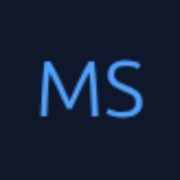
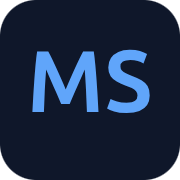
feat: Enhance Portfolio Branding and Visual Polish

diff --git a/src/components/layout/Header.jsx b/src/components/layout/Header.jsx
@@ -4,8 +4,8 @@ import React from 'react';
 import { Github, Linkedin, Mail, FileText } from 'lucide-react'; 
 import { GITHUB_URL, LINKEDIN_URL, RESUME_URL, EMAIL } from '../../assets/config';
 import IconLink from '../UI/IconLink';
+import logo from '/logo.svg';
 
-// Define the navigation items for the main menu
 const navItems = [
   { name: 'Home', href: '/' },
   { name: 'About', href: '#about' },
@@ -14,23 +14,19 @@ const navItems = [
   { name: 'Contact', href: '#contact' },
 ];
 
-/**
- * @param {object} props
- * @param {function} props.onNavigate - Function to call when a navigation link is clicked (to reset state).
- */
 export default function Header({ onNavigate }) {
   return (
     <header className="p-6 flex items-center justify-between border-b sticky top-0 bg-white z-10 shadow-sm">
       
       {/* Brand/Logo Area */}
-      <div className="flex items-center gap-4">
-        {/* Call onNavigate when clicking the logo/title */}
-        <a href="/" onClick={onNavigate}>
-          <h1 className="text-xl md:text-2xl font-bold text-gray-800 hover:text-indigo-600 transition">
-            Malusi Skunyana
-          </h1>
+      <div className="flex items-center">
+        <a href="/" onClick={onNavigate} className="flex items-center">
+          <img 
+            src={logo} 
+            alt="Malusi Skunyana Logo" 
+            className="h-10 md:h-8 w-auto rounded-md shadow-sm"
+          />
         </a>
-        <p className="text-sm text-gray-500 hidden sm:block">Front End Developer | Analytical Precision</p>
       </div>
       
       {/* Primary Navigation Links */}
@@ -39,7 +35,6 @@ export default function Header({ onNavigate }) {
           <a
             key={item.name}
             href={item.href}
-            // Call onNavigate when clicking any menu item
             onClick={onNavigate}
             className="text-gray-600 hover:text-indigo-600 transition duration-150 font-medium"
           >

diff --git a/src/components/sections/About.jsx b/src/components/sections/About.jsx
@@ -8,7 +8,6 @@ export default function About() {
   return (
     <section 
       id="about" 
-      // RETAINING OLD STYLING: bg-indigo-50, padding, rounded corners, hover effects
       className="
         bg-indigo-50 p-10 rounded-xl shadow-inner
         transition duration-300 ease-in-out
@@ -18,7 +17,6 @@ export default function About() {
     >
       <div className="px-0">
         
-        {/* HEADING STYLE MATCHING OLD VERSION */}
         <h3 className="text-4xl font-bold text-gray-800 mb-6 border-b border-indigo-200 pb-2">
           About Malusi
         </h3>
@@ -29,7 +27,7 @@ export default function About() {
           {/* Right Column: Photo and Download CTA (Grouped for priority) */}
           <div className="md:col-span-1 flex flex-col items-center order-first md:order-last">
             
-            {/* 1. Professional Photo (Slightly higher placement) */}
+            {/* Professional */}
             <div className="
               w-48 h-48 mb-4
               rounded-full overflow-hidden 
@@ -43,7 +41,7 @@ export default function About() {
               />
             </div>
 
-            {/* 2. Download Resume CTA (Moved just below the photo) */}
+            {/* Download Resume CTA */}
             <a 
               href={RESUME_URL} 
               target="_blank" 

diff --git a/index.html b/index.html
@@ -24,13 +24,22 @@
 
     <meta name="robots" content="index, follow" />
 
-    <!-- Favicon -->
-    <link rel="icon" href="/favicon.ico" type="image/x-icon" />
-    <link rel="icon" type="image/png" sizes="32x32" href="/favicon-32x32.png" />
-    <link rel="icon" type="image/png" sizes="16x16" href="/favicon-16x16.png" />
+    <!-- FAVICON -->
+
+    <!-- SVG favicon (modern browsers) -->
+    <link rel="icon" type="image/svg+xml" href="/favicon.svg" />
+
+    <!-- PNG fallbacks for older browsers -->
+    <link rel="icon" type="image/png" href="/favicon-96x96.png" sizes="96x96" />
+
+    <!-- Legacy ICO fallback -->
+    <link rel="shortcut icon" href="/favicon.ico" />
+
+    <!-- Apple Touch Icon (for iOS home screen) -->
     <link rel="apple-touch-icon" sizes="180x180" href="/apple-touch-icon.png" />
-    <link rel="icon" type="image/png" sizes="192x192" href="/android-chrome-192x192.png" />
-    <link rel="icon" type="image/png" sizes="512x512" href="/android-chrome-512x512.png" />
+    <meta name="apple-mobile-web-app-title" content="MalusiS" />
+
+    <!-- Manifest (for PWA + Android icons) -->
     <link rel="manifest" href="/site.webmanifest" />
 
     <!-- Canonical URL-->

diff --git a/src/components/sections/Hero.jsx b/src/components/sections/Hero.jsx
@@ -9,7 +9,7 @@ export default function Hero() {
     <section 
       id="hero" 
       className="
-        pt-16
+        pt-0
         text-center 
         h-[80vh]
         flex flex-col items-center justify-center
@@ -18,20 +18,20 @@ export default function Hero() {
         shadow-lg
       " 
     >
-      <h2 
+      <h1 
         className="
           text-4xl sm:text-5xl md:text-7xl font-extrabold tracking-tight mb-4
         "
       >
         Malusi Skunyana
-      </h2>
-      <p 
+      </h1>
+      <h2 
         className="
           text-xl sm:text-2xl font-light mb-6 opacity-90
         "
       >
         Front End Developer
-      </p>
+      </h2>
 
       {/* Content now loads instantly */}
       <div 
